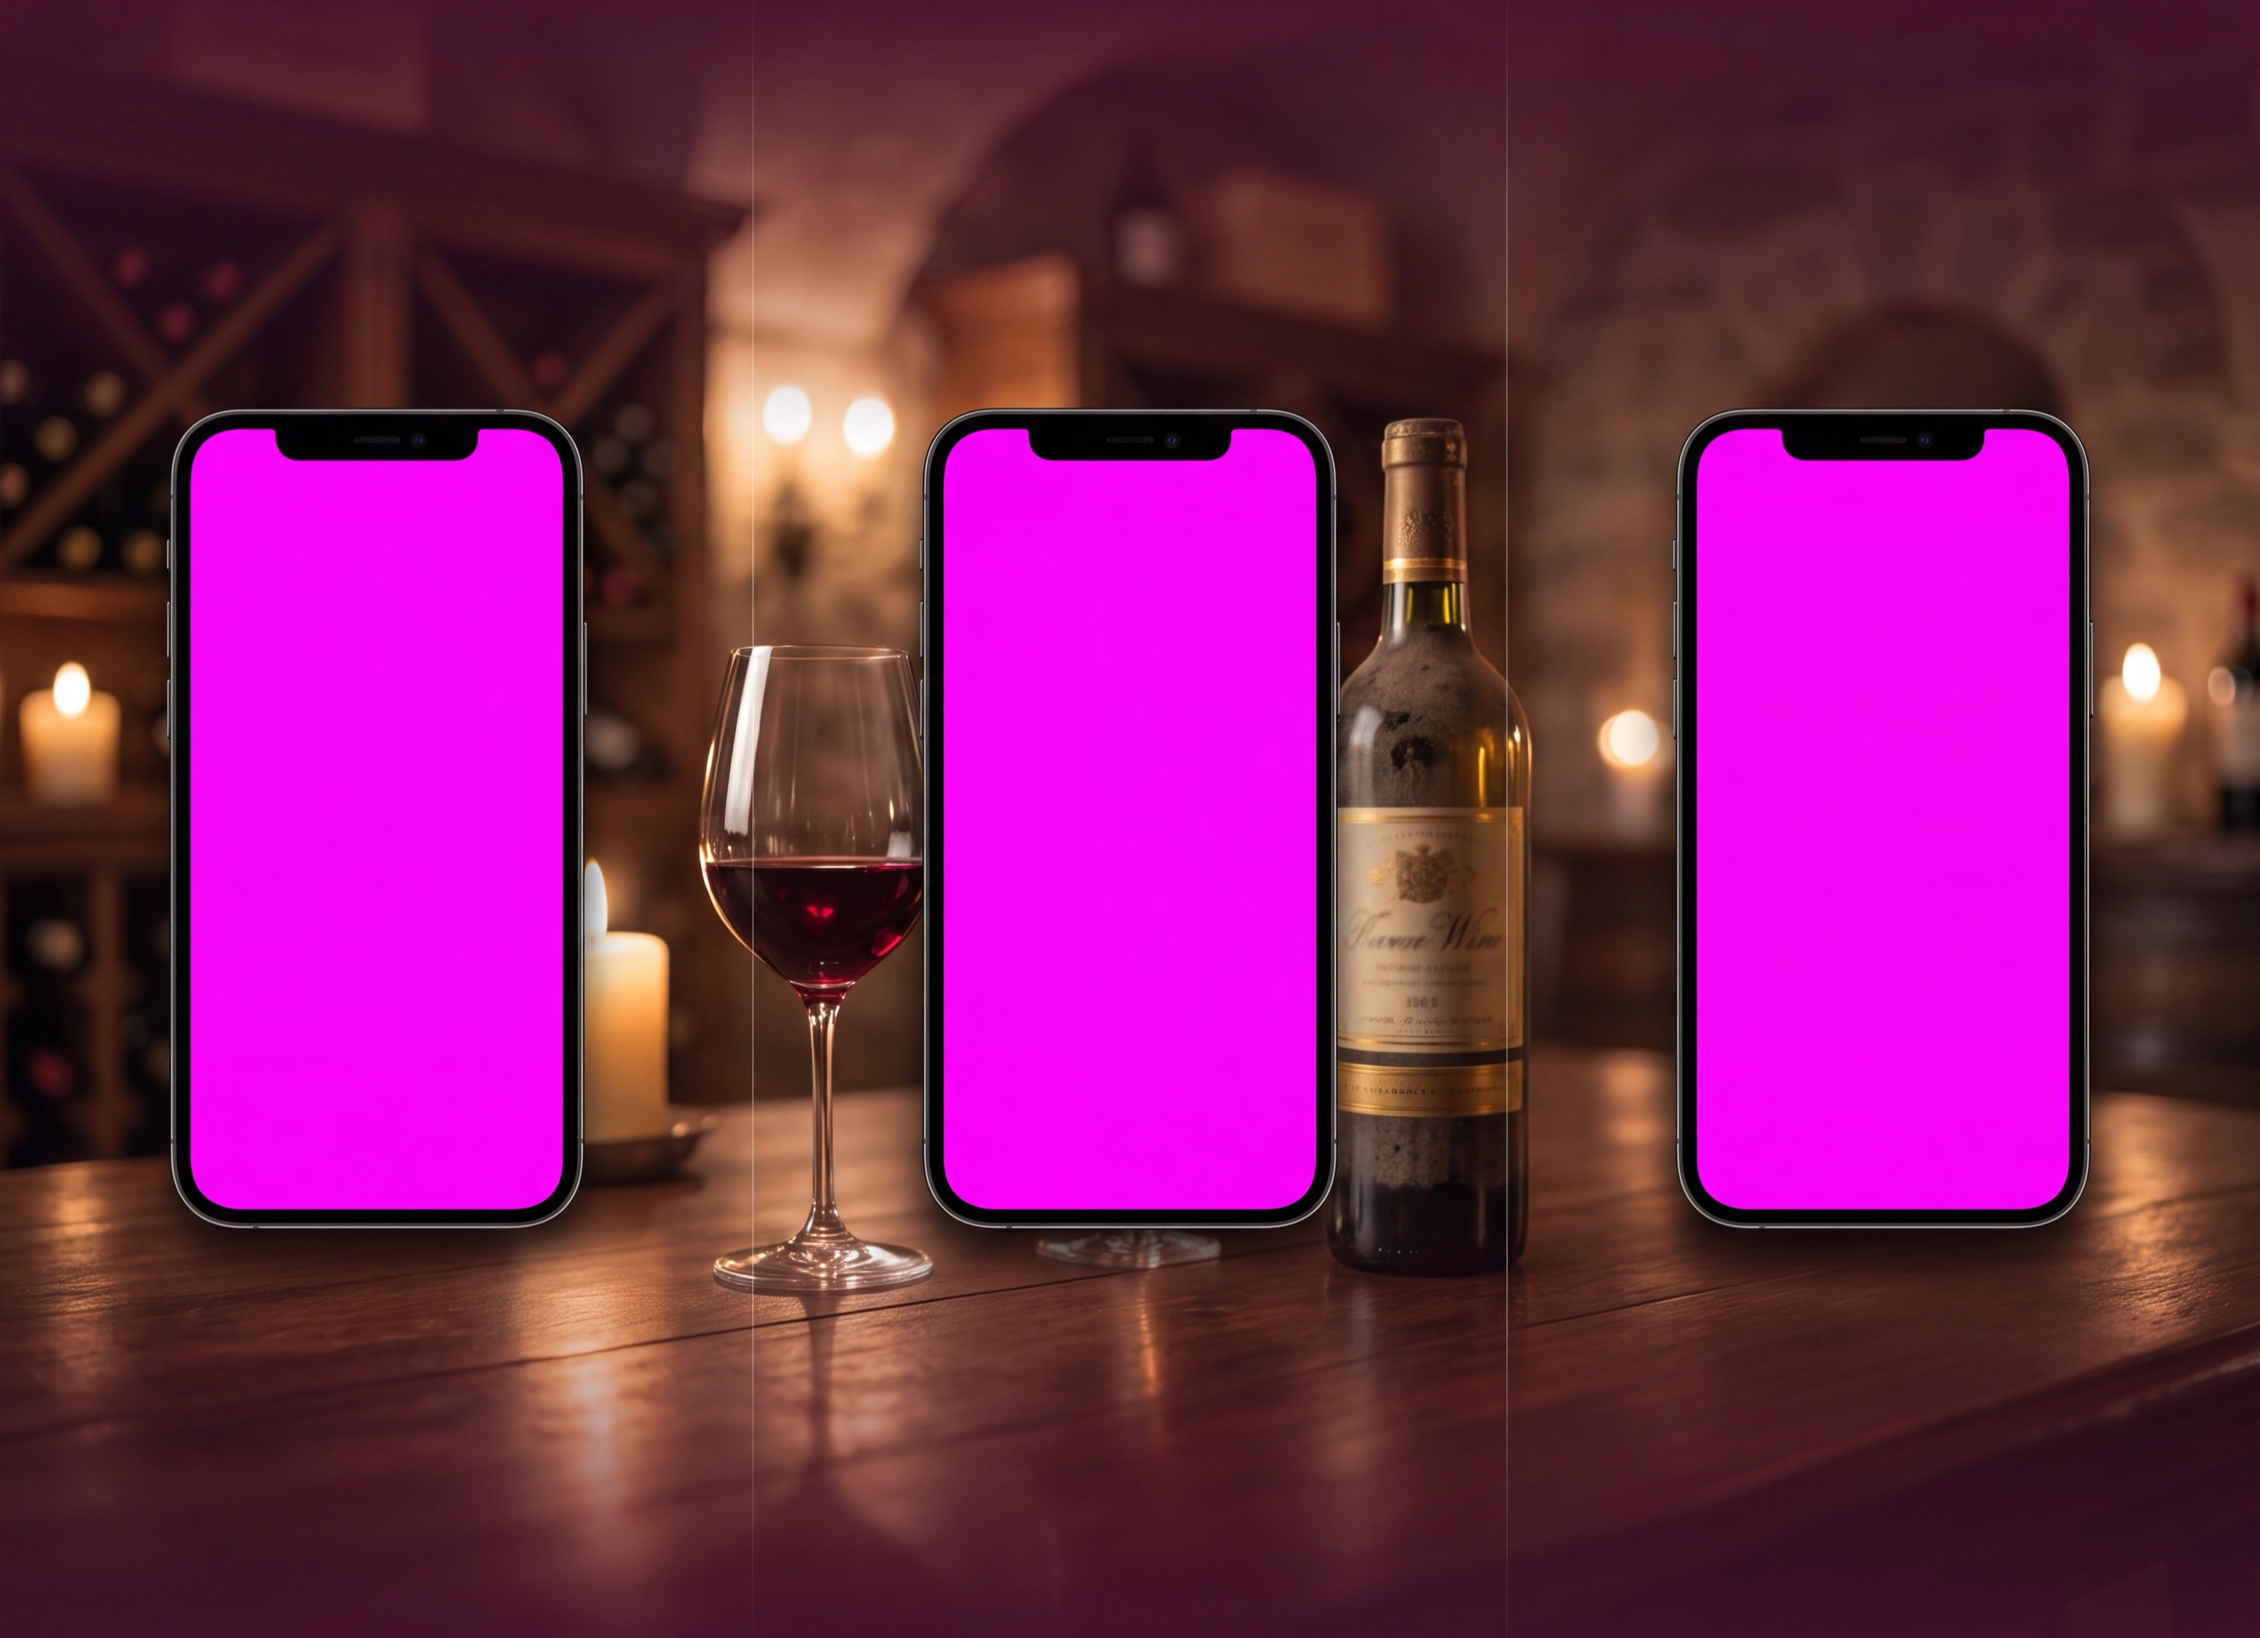
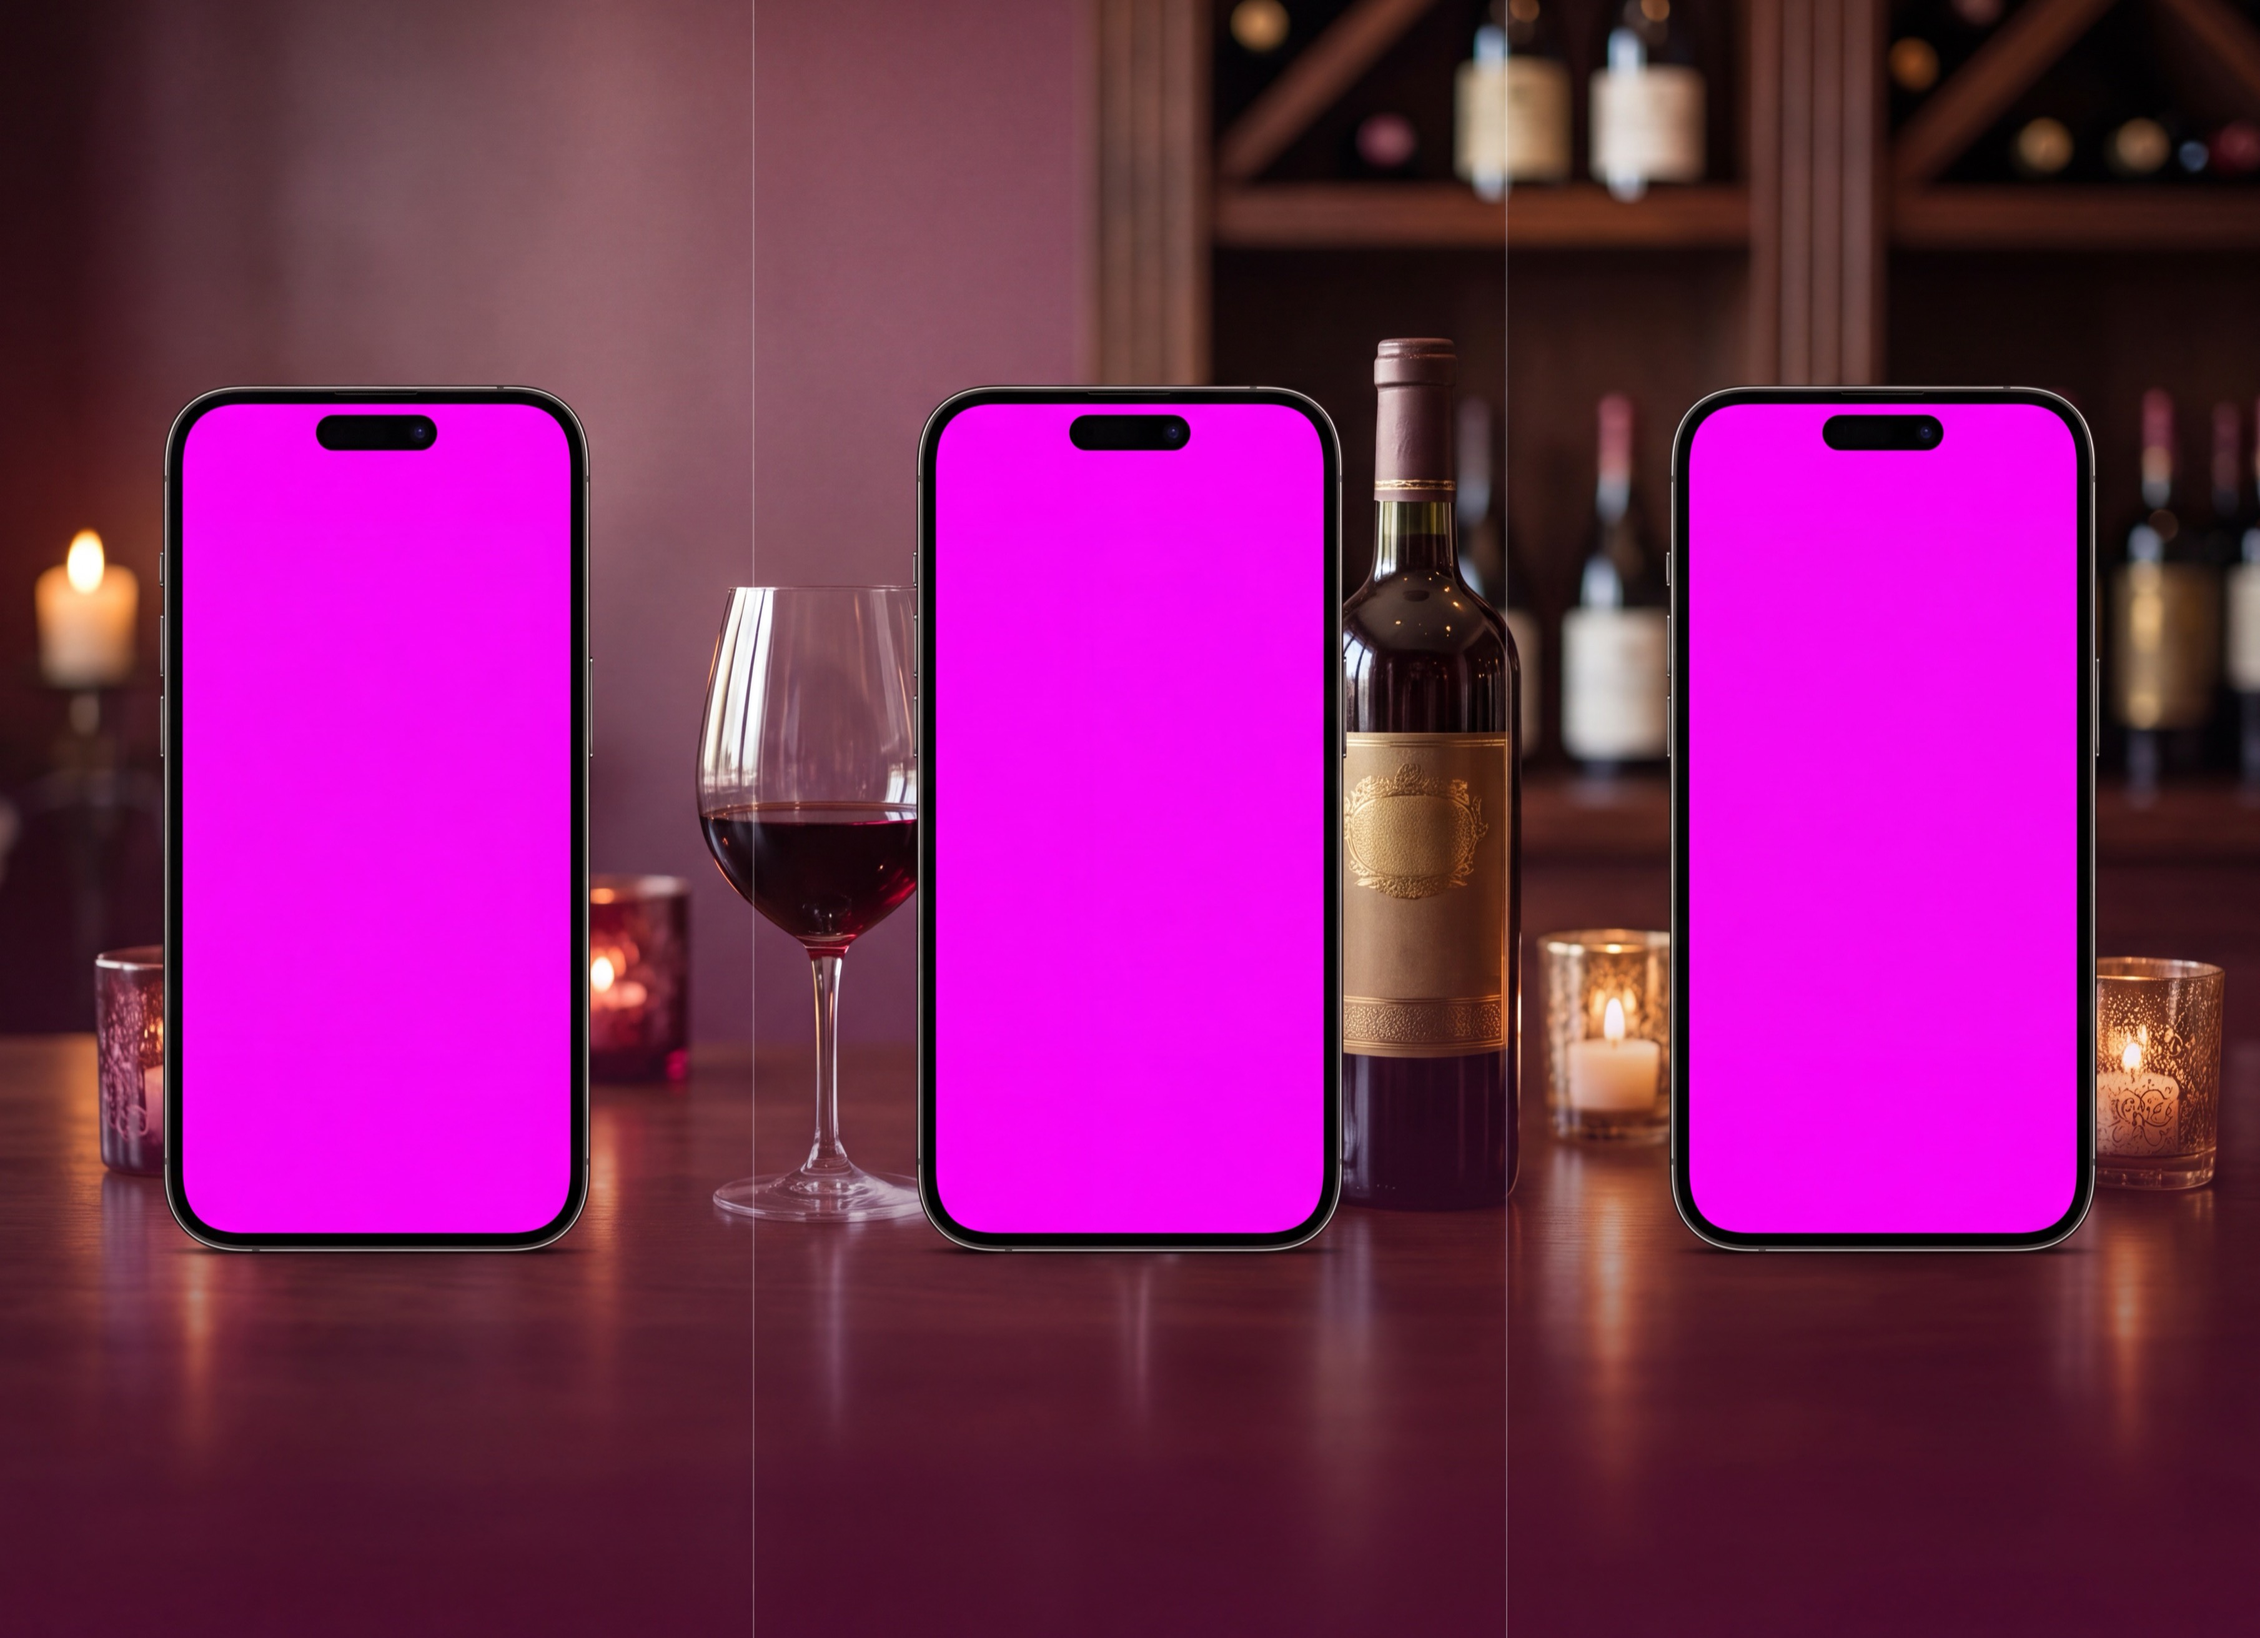
feat(appstore): the phone takes the frame, the bento takes a centre
The phone was an object in a photograph of a cellar; it is now the subject,
at 74% of the panel height. On a store listing seen as a thumbnail, the app is
what has to be legible, and the room is what tells you which app it is.

The bento tiles are placed by hand rather than packed by the grid, in three
bands: artwork, then the app itself across the middle, then what it keeps
track of. The name sits dead centre, which is what makes a mosaic read as a
bento instead of a list that happens to wrap. The grid grew a ninth row so the
price tile has the two it needs — its label was clipped at one.

diff --git a/scripts/bento-panel.html b/scripts/bento-panel.html
@@ -64,7 +64,7 @@
         grid-template-columns: repeat(4, 1fr);
         /* minmax(0, 1fr), not 1fr: a plain 1fr row still grows to fit its
            content, and the tallest tile pushed the last row off the panel. */
-        grid-template-rows: repeat(8, minmax(0, 1fr));
+        grid-template-rows: repeat(9, minmax(0, 1fr));
         gap: 22px;
       }
 
@@ -89,13 +89,25 @@
       .art { display: flex; align-items: center; justify-content: center; flex: 1; }
       .art img { max-width: 100%; max-height: 100%; object-fit: contain; }
 
-      .wide-2 { grid-column: span 2; }
-      .tall-2 { grid-row: span 2; }
-      .tall-3 { grid-row: span 3; }
+      /* Every tile is placed by hand. Three bands — a top row of artwork, the
+         app itself across the middle, then what it keeps track of — with the
+         name dead centre, which is what makes a mosaic read as a bento rather
+         than as a list that happens to wrap. */
+      .t-map     { grid-area: 1 / 1 / 4 / 3; }
+      .t-fav     { grid-area: 1 / 3 / 4 / 4; }
+      .t-spirits { grid-area: 1 / 4 / 4 / 5; }
+      .t-notes   { grid-area: 4 / 1 / 6 / 2; }
+      .t-hero    { grid-area: 4 / 2 / 6 / 4; }
+      .t-ai      { grid-area: 4 / 4 / 6 / 5; }
+      .t-ready   { grid-area: 6 / 1 / 8 / 3; }
+      .t-sake    { grid-area: 6 / 3 / 10 / 4; }
+      .t-stars   { grid-area: 6 / 4 / 8 / 5; }
+      .t-sharing { grid-area: 8 / 1 / 10 / 3; }
+      .t-price   { grid-area: 8 / 4 / 10 / 5; }
 
-      /* The app itself, at the centre of what it can do. */
+      /* The app itself, at the centre of what it can do. Its placement lives
+         with the other tiles above; only its look belongs here. */
       .hero {
-        grid-column: span 2;
         background: radial-gradient(120% 120% at 30% 10%, #3a1f2b 0%, var(--card) 70%);
         align-items: center;
         justify-content: center;
@@ -164,37 +176,37 @@
     </header>
 
     <main class="bento">
-      <div class="tile bleed wide-2 tall-2">
+      <div class="tile bleed t-map">
         <img src="bento-assets/location-map.png" alt="" />
         <p class="label">{{LOCATION}}</p>
       </div>
 
-      <div class="tile tall-2">
+      <div class="tile t-fav">
         <div class="art"><span class="heart">&#9829;</span></div>
         <p class="label">{{FAVORITES}}</p>
       </div>
 
-      <div class="tile tall-2">
+      <div class="tile t-spirits">
         <div class="art"><img src="bento-assets/decanter.png" alt="" /></div>
         <p class="label">{{SPIRITS}}</p>
       </div>
 
-      <div class="tile hero tall-2">
+      <div class="tile hero t-hero">
         <img src="bento-assets/app-icon.png" alt="" />
         <span>Vinarium</span>
       </div>
 
-      <div class="tile tall-2">
+      <div class="tile t-ai">
         <div class="art"><img src="bento-assets/siri-icon.png" alt="" /></div>
         <p class="label">{{AI}}</p>
       </div>
 
-      <div class="tile tall-2">
+      <div class="tile t-notes">
         <div class="art"><span class="quote">&#8220;</span></div>
         <p class="label">{{NOTES}}</p>
       </div>
 
-      <div class="tile rows wide-2 tall-3">
+      <div class="tile rows t-ready">
         <p class="label">{{READY}}</p>
         <div class="row"><span class="dot" style="background:#c0424a"></span><span class="name">Tapada das Gamas</span><span class="when">{{BEFORE}} 2026</span></div>
         <div class="row"><span class="dot" style="background:#d9e08c"></span><span class="name">La Gioiosa Valdobbiadene</span><span class="when">{{BEFORE}} 2026</span></div>
@@ -204,17 +216,17 @@
         <div class="row"><span class="dot" style="background:#c0424a"></span><span class="name">Domaine Ott Clos Mireille</span><span class="when">{{BEFORE}} 2028</span></div>
       </div>
 
-      <div class="tile tall-3">
+      <div class="tile t-sake">
         <div class="art"><img src="bento-assets/sake.png" alt="" /></div>
         <p class="label">{{SAKE}}</p>
       </div>
 
-      <div class="tile tall-3">
+      <div class="tile t-stars">
         <div class="art"><span class="stars">&#9733;&#9733;&#9733;&#9733;&#9733;</span></div>
         <p class="label">{{RATING}}</p>
       </div>
 
-      <div class="tile wide-2">
+      <div class="tile t-sharing">
         <div class="people">
           <img src="bento-assets/memoji-1.png" alt="" />
           <img src="bento-assets/memoji-2.png" alt="" />
@@ -224,7 +236,7 @@
         <p class="label">{{SHARING}}</p>
       </div>
 
-      <div class="tile wide-2">
+      <div class="tile t-price">
         <div class="art" style="flex-direction:column; gap:10px; align-items:stretch">
           <span class="price">154 €</span>
           <svg class="spark" viewBox="0 0 300 60" preserveAspectRatio="none">

diff --git a/scripts/generate-appstore-previews.ts b/scripts/generate-appstore-previews.ts
@@ -183,7 +183,7 @@ Create ONE single seamless panoramic marketing image (4:3 landscape). It will be
 - The scene FILLS THE ENTIRE FRAME, edge to edge and corner to corner, like a single photograph taken in one place. No borders, no letterboxing, no horizontal bands, no flat colour blocks, no blurred strip along the top or the bottom, no vignette, no visible boundary between an upper and a lower area — any straight horizontal edge across the image is a defect, and so is a band of blur that does not belong to the depth of the scene.
 - Sharpness is even across the whole height: the top of the image is as much part of the room as the middle, only further away. Do not darken, fade or defocus any area to leave room for text.
 - Exactly three iPhone mockups with thin dark titanium frames, perfectly front-facing (zero perspective tilt or rotation), all at the same size and the same vertical position, with a soft premium drop shadow: one centered in the left third, one centered in the middle third, one centered in the right third.
-- Each phone is large: its height covers about 60% of the image height, and its center sits slightly below the middle of the image. The area under the phones is still the scene, in soft focus — never an empty dark strip.
+- Each phone is the subject of the picture, not an object in it: its height covers about 74% of the image height and its center sits just below the middle, leaving only a narrow strip of floor under it. The scene is what surrounds it, and the phone dominates the frame.
 - Each phone's screen is a single flat solid pure magenta (#FF00FF) panel filling the entire display edge to edge, following the display's rounded corners. Perfectly uniform magenta: no gradients, no reflections, no glare, no UI, no notch, no camera island, no text. The real app screenshots will be composited onto these magenta panels afterwards, so anything drawn on them would be destroyed.
 - Above the phones there is simply more room — a wall, shelving, the far end of the space — with nothing brightly lit and nothing demanding attention. Captions are typeset over it afterwards and the compositor lays its own gradient there, so the image itself needs no empty band.
 - ABSOLUTELY NO TEXT anywhere in the image: no captions, no labels, no logos, no watermarks, no lettering of any kind. Every word is added later.
